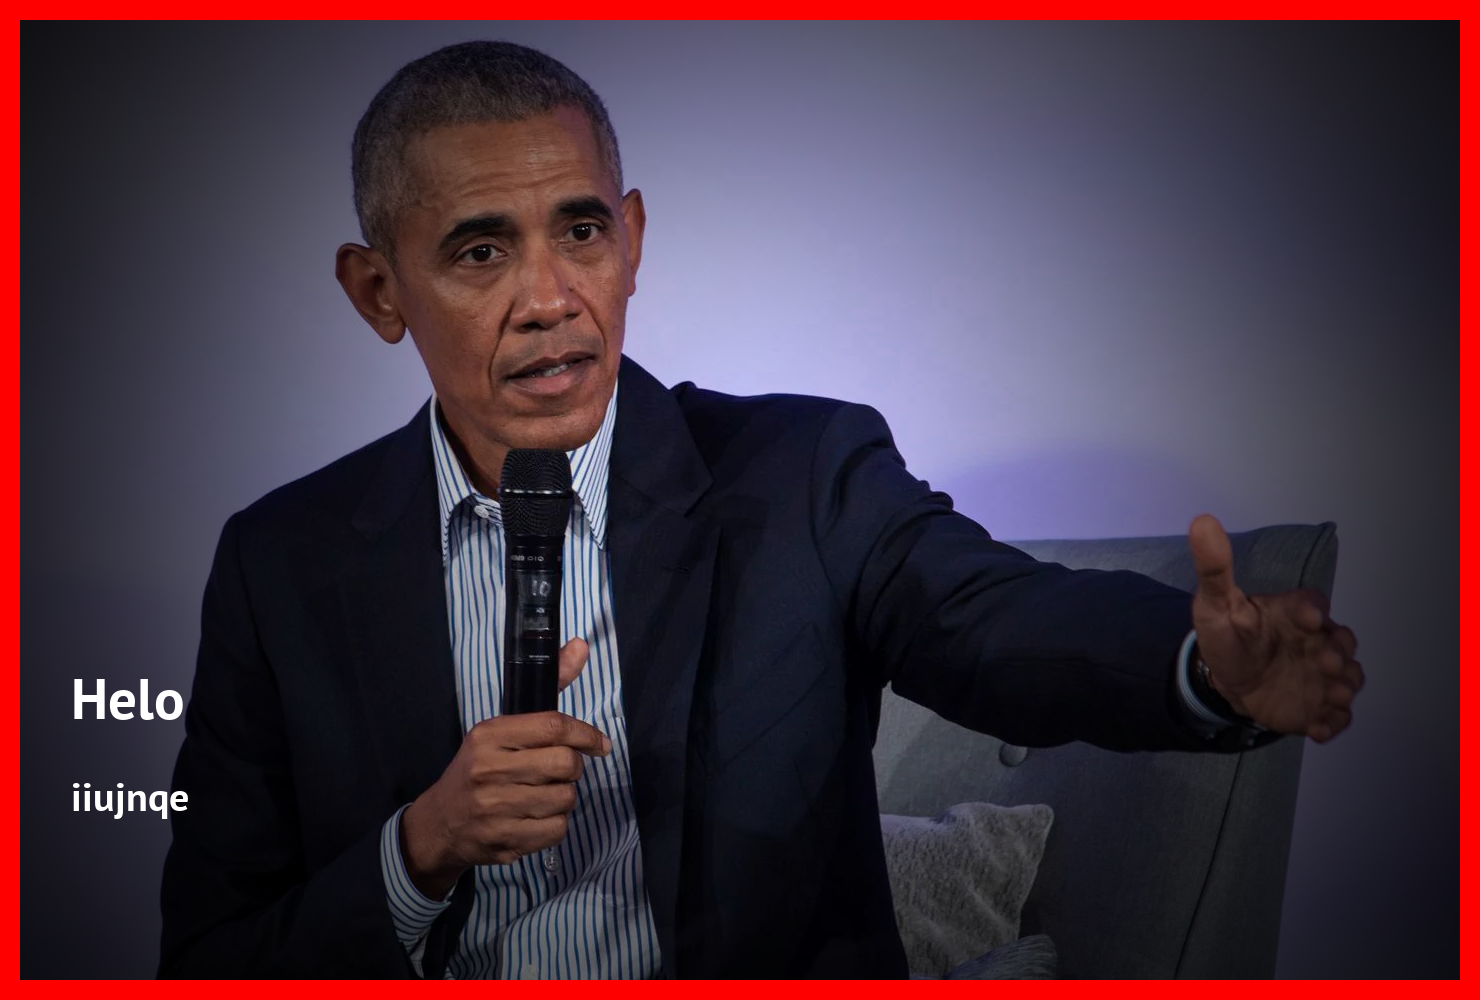
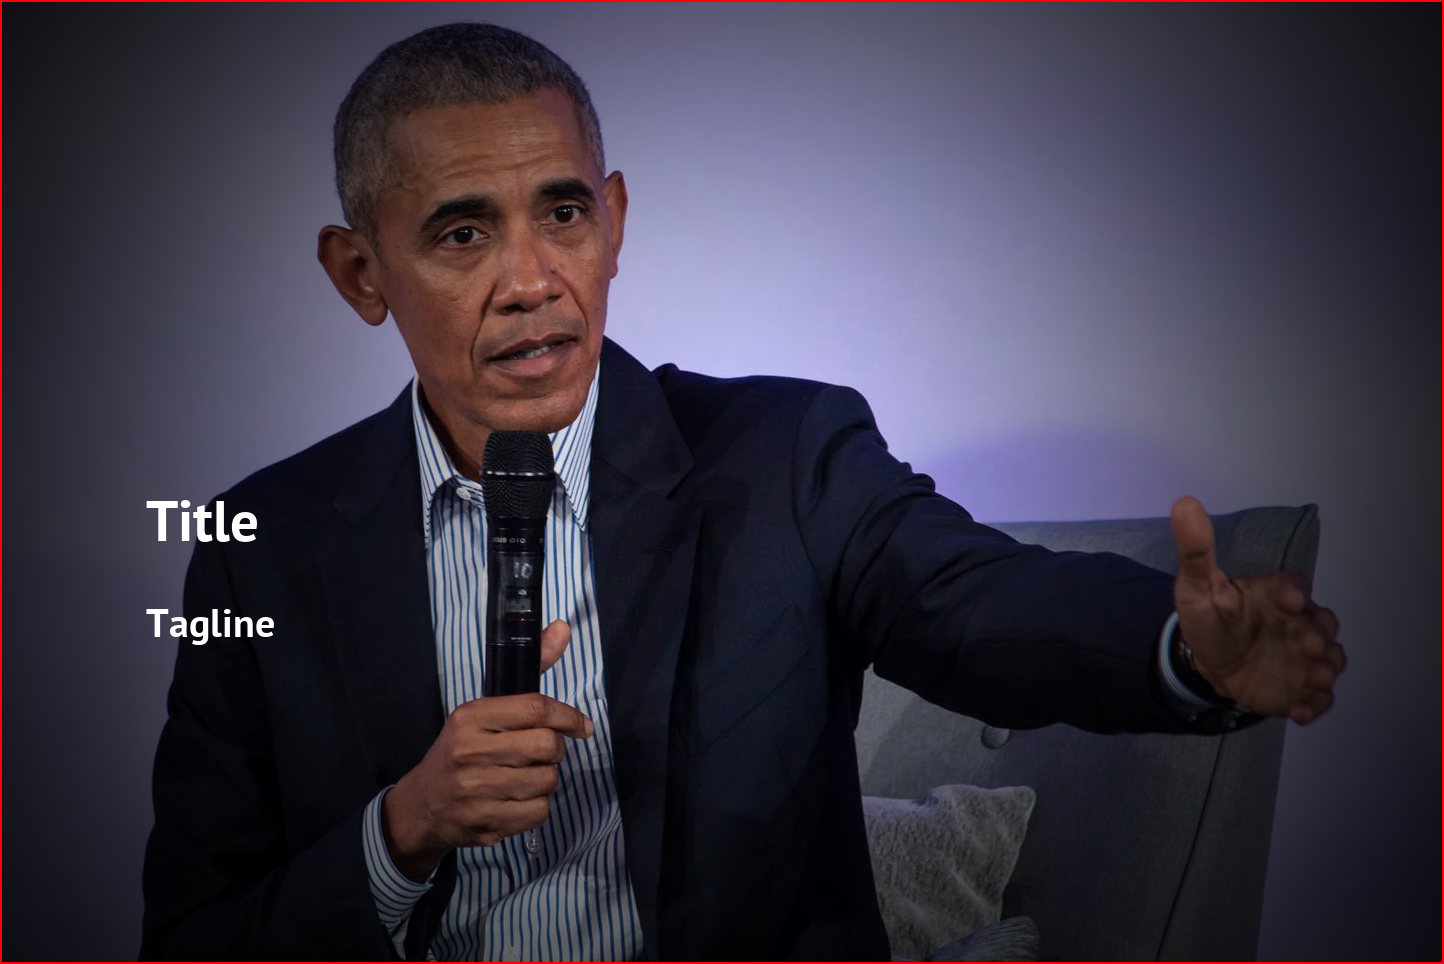
file change

diff --git a/saenews/utils.py b/saenews/utils.py
@@ -100,7 +100,7 @@ def title_tagline_news(title,tag_line,input_file, output_file=''):
     out = a.put_logo(input_file=out,border=logo_border, output_file=output_file)
     return(out)
     
-def quote(quote,byline,input_file, output_file=''):
+def quote(title,tag_line,input_file, output_file='', cord = (0.035,0.666), font_size='', caption_width='', border_width='' , logo_border='', border_color='red', text_font = '', cap_text_font = ''):
     repo_path = get_path()
 
     if output_file == '':
@@ -117,13 +117,17 @@ def quote(quote,byline,input_file, output_file=''):
     aa = img.resize((WW,HH)).save( '_resize.png')
 
     ## For the Title
-    xy = (W//28,round(H/1.5))
-    text_font=repo_path + '/fonts/OTF/Akrobat-Black.otf'
-    font_size = W//25 # Font Size Enter Manually if required
-    caption_width = W//25  # Width of the caption. Reduce if the text is going outside the image
-
-    border_width = W//72 # Width of the Border
-    logo_border = (W//36,W//36) # How much away from the edge should the logo appear?? Have put (Width of Image)/40. But change if required.
+    xy = (round(W*cord[0]),round(H*cord[1]))
+    if text_font == '':
+        text_font=repo_path + '/fonts/OTF/Akrobat-Black.otf'
+    if font_size == '':
+        font_size = W//25 # Font Size Enter Manually if required
+    if caption_width == '':
+        caption_width = W//25  # Width of the caption. Reduce if the text is going outside the image
+    if border_width == '':
+        border_width = W//72 # Width of the Border
+    if logo_border == '':
+        logo_border = (W//36,W//36) # How much away from the edge should the logo appear?? Have put (Width of Image)/40. But change if required.
     font_title = ImageFont.truetype(text_font, size=font_size)
     draw = ImageDraw.Draw(img)
     w,h = draw.textsize(title, font=font_title)
@@ -131,14 +135,14 @@ def quote(quote,byline,input_file, output_file=''):
 
     out = a.get_vignet_face('_resize.png',fxy='centre' )
     out = a.put_caption(input_file=out, caption=title,caption_width=caption_width,font_size=font_size, xy = xy, text_font=text_font)
-
-    text_font = repo_path + '/fonts/PTS56F.ttf'
+    if cap_text_font == '':
+        cap_text_font = repo_path + '/fonts/PTS56F.ttf'
     font_size = W//36 # Font Size Enter Manually if required
     # xy_tagline = (xy[0], xy[1]+ font_size+10)
     xy_tagline = (xy[0], xy[1]+h*2)
     caption_width = W//18
-    out = a.put_caption(input_file=out, caption=tag_line,caption_width=caption_width,font_size=font_size, xy = xy_tagline, text_font=text_font)
-    out = a.add_border(width=border_width,color='red',input_file=out,  )
+    out = a.put_caption(input_file=out, caption=tag_line,caption_width=caption_width,font_size=font_size, xy = xy_tagline, text_font=cap_text_font)
+    out = a.add_border(width=border_width,color=border_color,input_file=out,  )
 
     out = a.put_logo(input_file=out,border=logo_border, output_file=output_file)
     return(out)    

diff --git a/saenews/sae2.py b/saenews/sae2.py
@@ -100,9 +100,10 @@ class sae2():
         cv2.imwrite(output_file,zeros)
         return (output_file)
 
-    def put_caption(self,caption,input_file='',output_file='', caption_width=50, xy = ('',''), text_font = './fonts/PTS75F.ttf', font_size=50,font_color='rgba(255,255,255,255)',):
+    def put_caption(self,caption,input_file='',output_file='', caption_width=50, xy = ('',''), text_font = '', font_size=50,font_color='rgba(255,255,255,255)',):
         repo_path = get_path()
-        text_font =  repo_path + '/fonts/PTS75F.ttf'
+        if text_font == '':
+            text_font =  repo_path + '/fonts/PTS75F.ttf'
         if input_file == '':
             try :
                 input_file = sorted(glob.glob('vignet_out*'))[-1]
